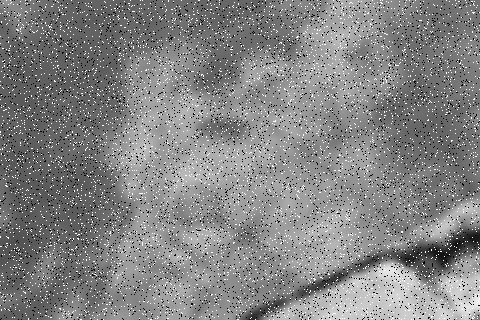
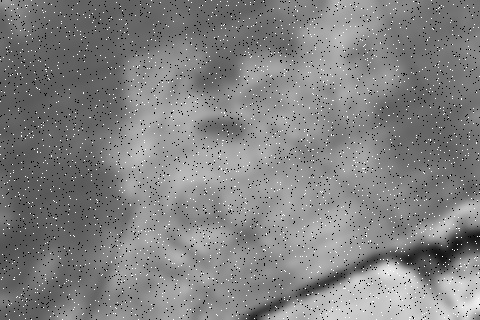
Preprocessing-Restoration

Changed region(s): [[0.0, 0.0, 1.0, 1.0], [0.9375, 0.9688, 1.0, 1.0], [0.9062, 0.625, 0.9375, 0.6562]]

diff --git a/Preprocessing - Restoration.py b/Preprocessing - Restoration.py
@@ -1,0 +1,30 @@
+import cv2
+from cv2 import GaussianBlur
+from cv2 import medianBlur
+from matplotlib.pyplot import yticks
+import numpy as np
+import matplotlib.pyplot as plt
+
+img1 = cv2.imread("Degraded Images/SingContrast 0.5.jpg")
+img2 = cv2.imread("Degraded Images/salt-and-pepper.jpg")
+
+equ = cv2.equalizeHist(img1)
+histr = cv2.calcHist([equ],[0],None,[256],[0,256])
+filtered1 = medianBlur(img2,7)
+kernel = np.array([[0,-1,0], [-1,5,-1], [0,-1,0]])
+image_sharp = cv2.filter2D(filtered1,-1, kernel)
+
+titles = ["Contrast 0.2","Salt and Pepper image", "Equalized Histogram","Median Filtered"]
+
+images = [img2,filtered1]
+for i in range(2):
+    plt.subplot(2,2,i+1)
+    plt.imshow(images[i])
+    plt.title(titles[i])
+    plt.xticks([])
+    plt.yticks([])
+
+plt.show()
+
+cv2.waitKey()
+cv2.destroyAllWindows()

diff --git a/Preprocessing - Contrast and Noise.py b/Preprocessing - Contrast and Noise.py
@@ -9,8 +9,8 @@ Samp1 = cv2.imread("Degraded Images/Sample Two Blurred.jpeg")
 Samp2 = cv2.imread("Greyscaled/SampleThree.png")
 
 Resultx = noise.add_noise(Samp1)
-Resulty = cv2.addWeighted(Samp2,0.5,np.zeros(Samp2.shape, Samp2.dtype), 0, 0)
-
+Resulty = cv2.addWeighted(Samp2,0.2,np.zeros(Samp2.shape, Samp2.dtype), 0, 0)
+cv2.imwrite("Contrast 0.2.jpg", Resulty)
 titles = ["Gaussian Image","Original 3", "Gaussian + Noise Image","Contrast Degradation"]
 
 images = [Samp1,Samp2,Resultx, Resulty]
